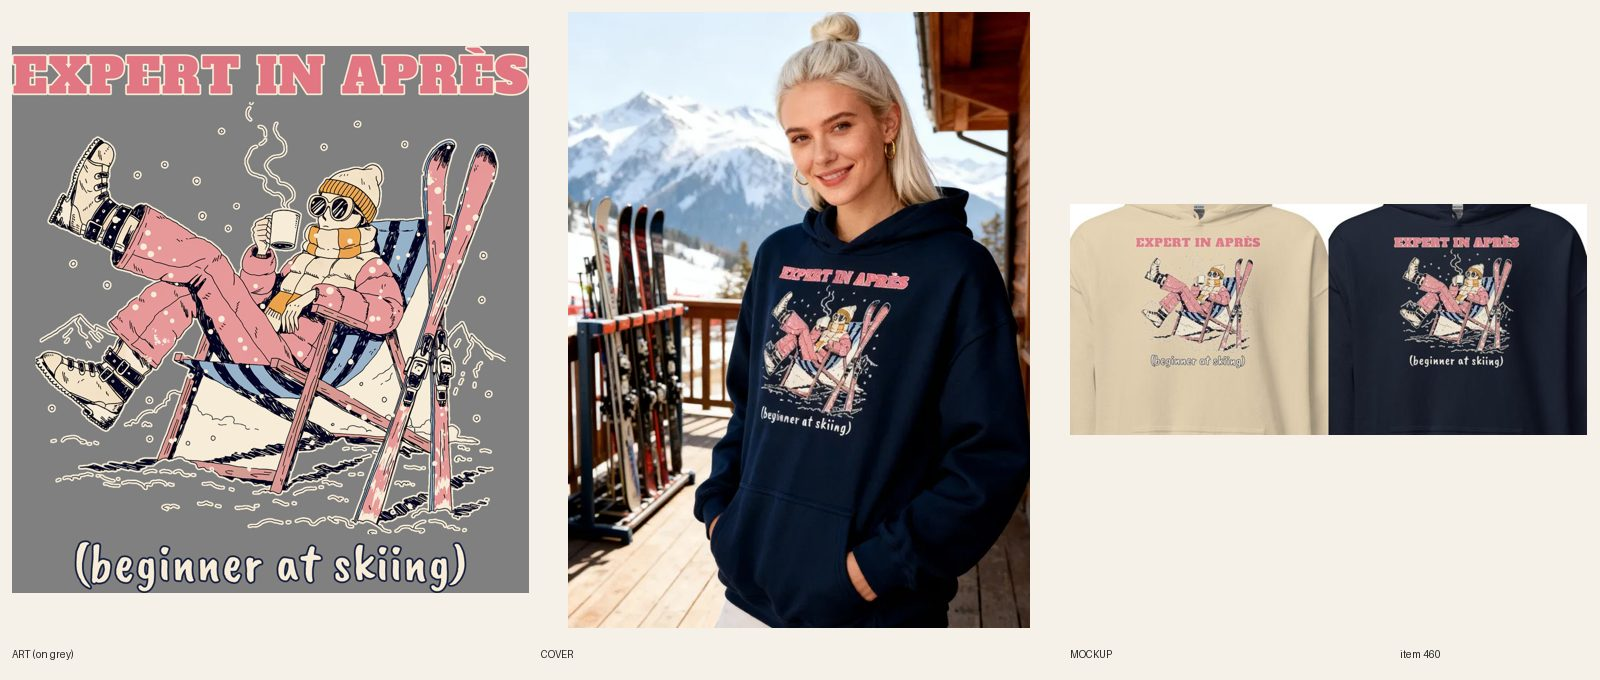
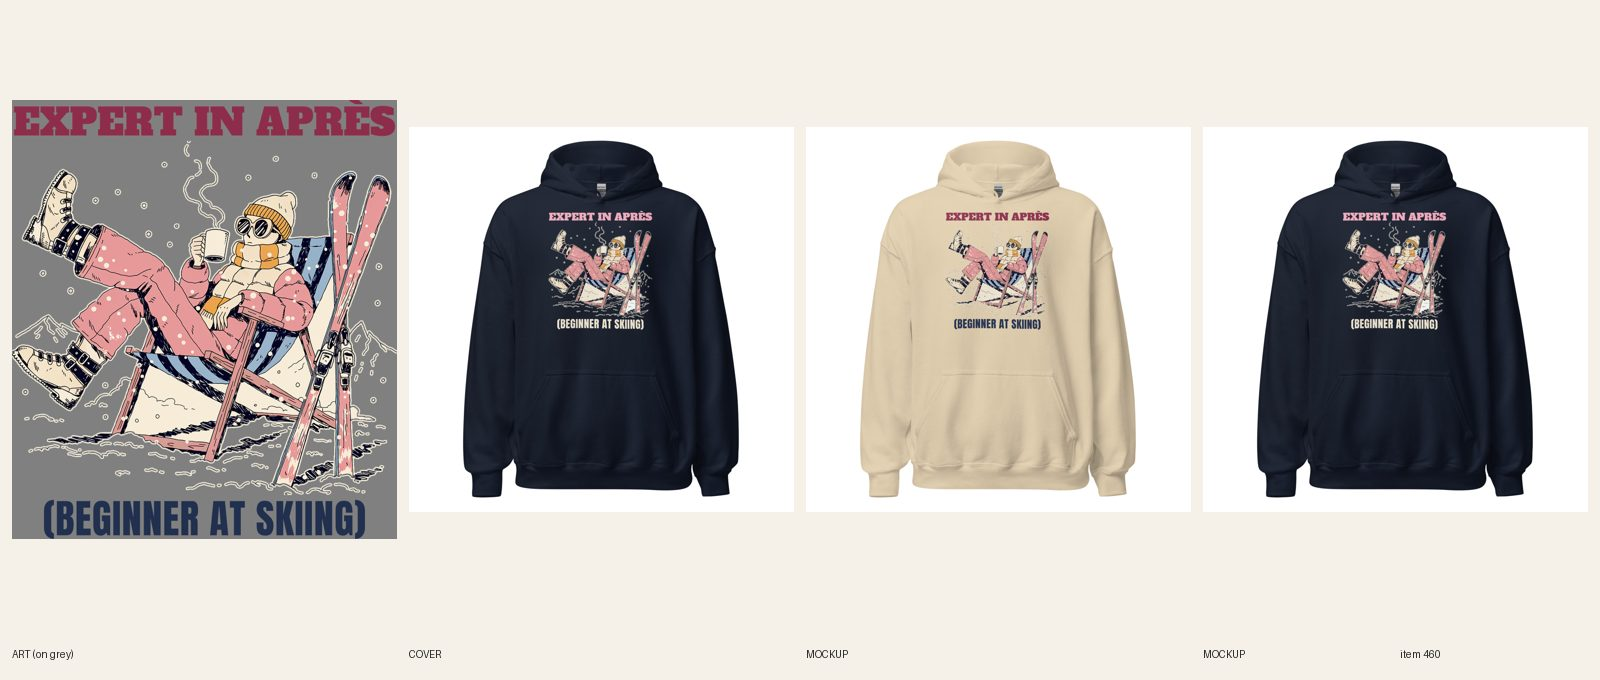
[A] review 460 Expert in Apres hoodie (type redo)

diff --git a/docs/pipeline/460-apres-ski-hoodie-expert-in-apres.md b/docs/pipeline/460-apres-ski-hoodie-expert-in-apres.md
@@ -1,4 +1,4 @@
-status: BUILDING [A] 2026-10-19 19:05
+status: REVIEW
 lane: A
 type: new
 id: 460
@@ -30,3 +30,4 @@ kd: 30
 - 2026-10-17 21:52 UTC builder [A]: Printful resync verified (12/12 variants on the new file); REVIEW.
 - 2026-10-17 22:39 UTC director: APPROVED, LIVE. ACTIVE + Online Store, Headless and Google & YouTube; audit --handle PASS (0 warn). Copy polished by the director first (R8: keyword counts, superlatives, false claims).
 - 2026-10-18 17:22 UTC director: QUALITY RESET grade B (type only), REDO. The product stays ACTIVE (same handle, URL, title keyword). Keep the line "EXPERT IN APRÈS / (beginner at skiing)" and the art. 1. Type: Plain top bar, art, casual hand-script bottom line; no lockup, script reads light on navy. 2. Quality reset type bar (docs/backlog/quality-reset.md, 'The new bar'): headline at least 90% of the art width, heavy, colors pulled from the art; second line at least 45% of the headline's height, never a thin script on a dark or mid garment; use the lettering as a shape (arch, stacked lockup, words breaking into the art), not a plain bar above and a script line below; no font used on more than 1 in 6 of the last 30 designs. 3. New print file means a new cover per R6.10 and a fresh review sheet (R7.7). While quality-reset.md says PAUSED, only lane A builds, and only the samples step 2 names.
+- 2026-10-19 19:12 UTC builder [A]: REDO type-only done (port of #461's approved print: designs/b/ap2.json). EXPERT IN APRÈS in Alfa Slab burgundy at full art width + (BEGINNER AT SKIING) in Anton navy at 80%, same art. Light file for Navy (designs/b/ap2-light.json: headline light pink #f2a9bd, second line cream), dark file for Sand. Light file: Navy on 1089759425, headline fill light pink; Sand on 1089759415, headline fill burgundy. Print 3312x3773, FW 1500 TOP 0 (aspect 1.14, clears the pouch), back logo 1080398177 kept. Relinked 12/12 (Sand 6, Navy 6). 2 fronts replaced in place (fileUpdate), phone-size read ok on both. Copy: story lettering sentence + FAQ 3 ink updated; FAQs 5, Dec 8 kept. Plain product shot (added to retired-covers.json). audit --handle PASS 0 warn; build ok. fal $0. Sheet docs/review/460.jpg.

diff --git a/docs/intake-log.md b/docs/intake-log.md
@@ -1,5 +1,5 @@
-RUNNING lane A since 2026-10-19 19:05 UTC
 RUNNING lane E since 2026-10-19 18:18 UTC
+2026-10-19 19:13 UTC — [A] Builder run: redid #460 Expert in Après hoodie (type only: ported #461's heavy burgundy Alfa Slab / navy Anton lockup, same art, FW 1500, Sand on dark file 1089759415, Navy on light-ink file 1089759425, 12/12 relinked, 2 fronts replaced in place, copy updated, plain product shot). REVIEW. fal $0. Lock released.
 2026-10-19 19:04 UTC — [C] Builder run: redid #625 Men's Rack Your Weights oversized hoodie (type only: Bevan stacked RACK YOUR / WEIGHTS. + heavy gold Playfair italic Respectfully., art at 64% to fit the 1650 px print area, FW 1500 TOP 20, file 1089754041, 12/12 relinked, 2 fronts replaced in place, copy updated, plain product shot). REVIEW. fal $0. 1 redo per run cap reached. Lock released.
 2026-10-19 19:07 UTC — [B] Builder run: redid #512 I Brought You a Sock crewneck (type only: Bevan rust I BROUGHT / brown YOU A SOCK. stacked at full print width, navy YOU'RE WELCOME. caps, same art, FW 1650, file 1089754720, 12/12 relinked, 2 fronts replaced in place, plain product shot). REVIEW. fal $0. Lock released.
 2026-10-19 18:45 UTC — [H] Helper run: Telegram inbox empty (getUpdates returned 0 updates; no pause, resume or TikTok links; nothing to consume). Audit (600 live products): 0 errors, 30 warnings left alone (polish); no meta, SEO, collection or price errors to fix; announcement bar unchanged. Category check: 0 products without a category (Shopify query empty, no mutation). Site freshness: mens-firefighter-yes-one-cat-once-hoodie, unisex-christmas-we-said-no-gifts-graphic-tee, womens-nana-mom-said-no-thats-cute-crewneck-sweatshirt all 200. Stuck work: one BUILDING item (#614, 18:38, lane A current); lane locks A 18:38, E 18:18, B 18:00, all under 2 hours. Daily summary not due (sent 16:05). Lock released.
